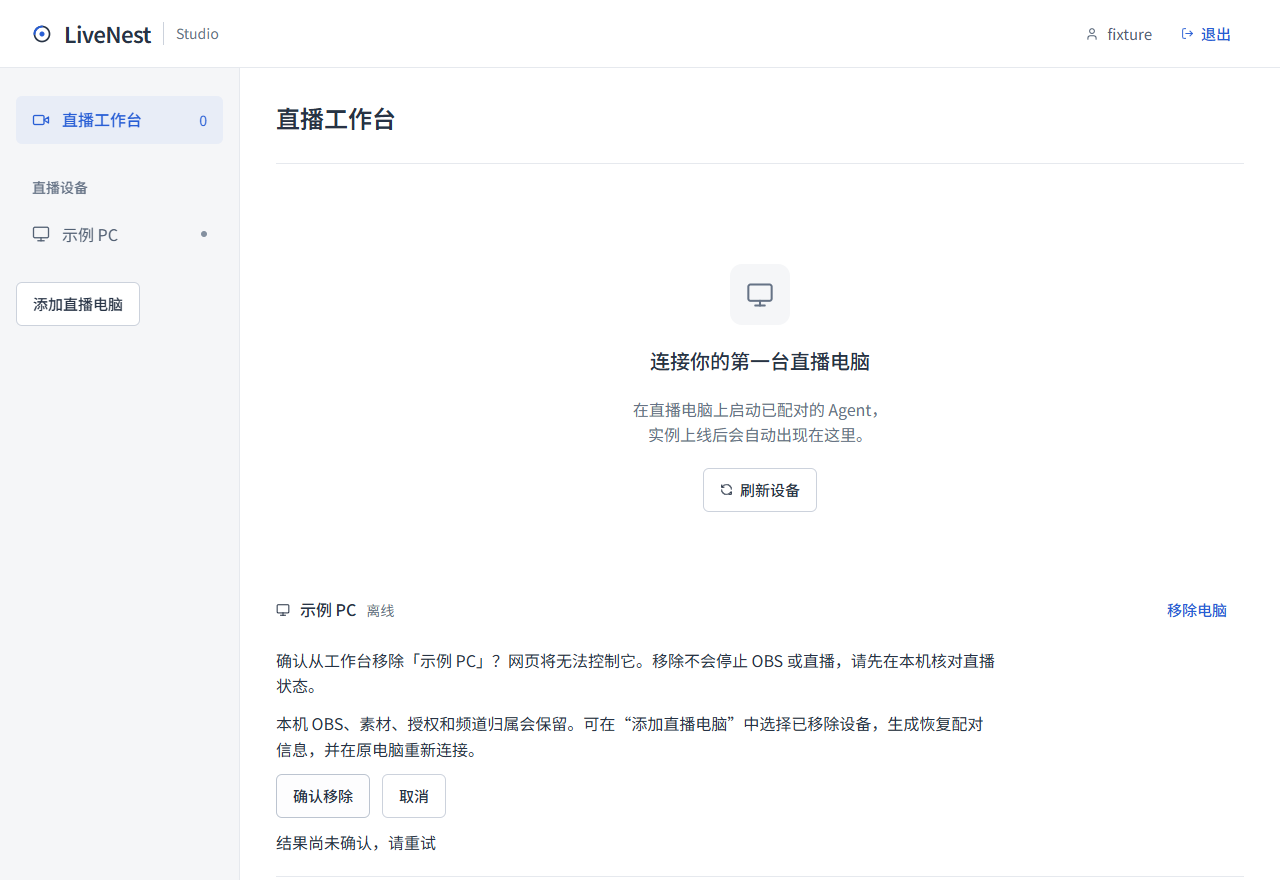
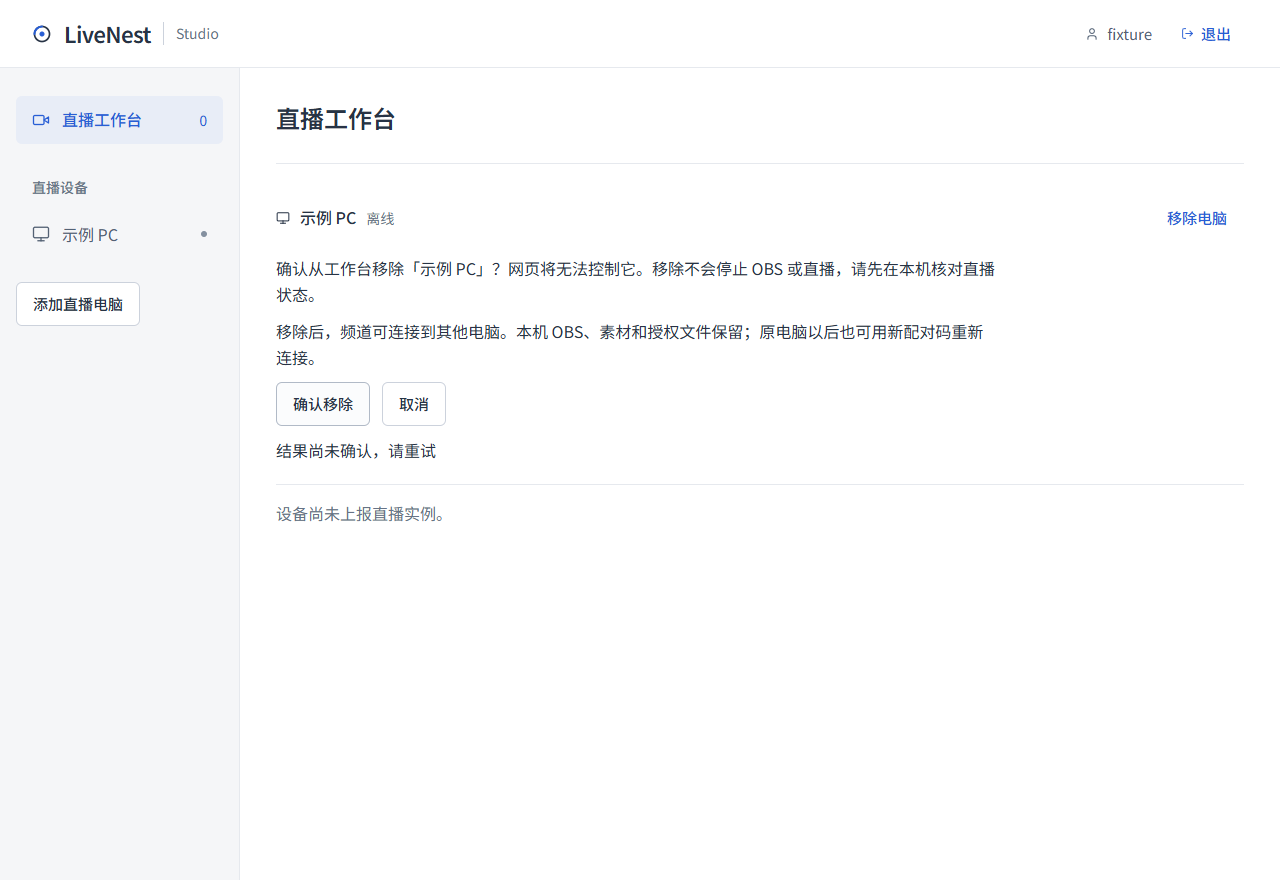
fix(channels)：移除设备时释放频道并清理历史占用

diff --git a/tests/channel-release.test.ts b/tests/channel-release.test.ts
@@ -1,0 +1,81 @@
+/** 移除设备释放频道的真实文件事务回归；只使用临时合成身份。 */
+import { mkdtemp, rm } from "node:fs/promises";
+import os from "node:os";
+import path from "node:path";
+import { randomUUID } from "node:crypto";
+import { beforeEach, afterEach, expect, it, vi } from "vitest";
+import { createPairing, pairAgent, openSession, revokeAgent, renewPairing } from "@/cloud/agents";
+import { claimChannel, reconcileRemovedChannelBindings } from "@/cloud/bindings";
+import { cloudStore, transaction } from "@/cloud/store";
+import { POST } from "@/app/api/agent/[...path]/route";
+import { Executor } from "@/agent/executor";
+import { Transport } from "@/agent/transport";
+import { Store } from "@/core/storage";
+let root: string;
+const origin = "https://cloud.example.com";
+const old = { agentId: "old_pc", instanceId: "main" };
+const current = { agentId: "new_pc", instanceId: "main" };
+/** 每次创建隔离云端元数据和本机授权目录。 */
+beforeEach(async () => {
+  root = await mkdtemp(path.join(os.tmpdir(), "ln-channel-release-"));
+  for (const [key, value] of Object.entries({ LIVEPILOT_DATA_ROOT: root, LIVEPILOT_MODE: "cloud", LIVEPILOT_ORIGIN: origin, LIVEPILOT_ENCRYPTION_KEY: "a".repeat(64), LIVEPILOT_INSTANCES: "main", GOOGLE_CLIENT_ID: "fixture", GOOGLE_CLIENT_SECRET: "fixture" })) vi.stubEnv(key, value);
+});
+/** 只清理经路径核实的测试目录。 */
+afterEach(async () => { vi.unstubAllEnvs(); vi.unstubAllGlobals(); vi.restoreAllMocks(); if (path.dirname(root) !== os.tmpdir() || !path.basename(root).startsWith("ln-channel-release-")) throw new Error("Unsafe cleanup"); await rm(root, { recursive: true, force: true }); });
+/** 使用现有协议建立可认证设备，不使用真实身份或 Google 服务。 */
+async function enroll(id: string) {
+  const token = (id === old.agentId ? "b" : "c").repeat(64); const invite = await createPairing(id, id);
+  await pairAgent(id, invite.code, token); const session = await openSession(id, randomUUID(), [{ id: "main", name: "Main" }]);
+  return { token, session: session.session };
+}
+/** 模拟旧版本遗留，或撤销已落盘但释放写入前进程退出。 */
+async function legacyRemoval() {
+  await enroll(old.agentId); await claimChannel(old, "UC_fixture", true);
+  await transaction(cloudStore(), async () => { const registry = (await cloudStore().read<{ agents: { id: string; revoked: boolean }[] }>("agents.json"))!; registry.agents.find(a => a.id === old.agentId)!.revoked = true; await cloudStore().write("agents.json", registry); });
+}
+it("releases only removed owners and makes historical cleanup idempotent", async () => {
+  await legacyRemoval(); await enroll(current.agentId); await claimChannel(current, "UC_active", true);
+  // claim 本身也修复历史遗留；再次造入旧记录验证显式部署清理。
+  const retained = (await cloudStore().read<unknown[]>("bindings.json"))!;
+  await cloudStore().write("bindings.json", [...retained, { ...old, channelId: "UC_fixture", confirmed: true }]);
+  expect(await reconcileRemovedChannelBindings()).toBe(1); expect(await reconcileRemovedChannelBindings()).toBe(0);
+  expect(await cloudStore().read("bindings.json")).toEqual([{ ...current, channelId: "UC_active", confirmed: true }]);
+});
+it.each([false, true])("does not resurrect stale ownership when removed identity pairs again, fresh=%s", async fresh => {
+  await legacyRemoval();
+  if (fresh) { const invite = await createPairing("fresh", "fresh"); await pairAgent("fresh", invite.code, "b".repeat(64), old.agentId); }
+  else { const invite = await renewPairing(old.agentId); await pairAgent(old.agentId, invite.code, "b".repeat(64)); }
+  expect(await cloudStore().read("bindings.json")).toEqual([]);
+});
+it("serializes removal with in-flight confirmation and never lets revoked requests reclaim", async () => {
+  await enroll(old.agentId); await enroll(current.agentId); await claimChannel(old, "UC_fixture");
+  await Promise.allSettled([claimChannel(old, "UC_fixture", true), revokeAgent(old.agentId)]);
+  expect(await cloudStore().read("bindings.json")).toEqual([]);
+  await expect(claimChannel(old, "UC_fixture", true)).rejects.toMatchObject({ status: 404 });
+  await claimChannel(current, "UC_fixture", true); await revokeAgent(old.agentId);
+  expect(await cloudStore().read("bindings.json")).toEqual([{ ...current, channelId: "UC_fixture", confirmed: true }]);
+});
+it("recovers after release persistence fails without restoring the revoked device", async () => {
+  await enroll(old.agentId); await claimChannel(old, "UC_fixture", true);
+  const write = Store.prototype.write;
+  const spy = vi.spyOn(Store.prototype, "write").mockImplementation(async function (this: Store, name: string, value: unknown) { if (name === "bindings.json") throw new Error("disk fixture"); return write.call(this, name, value); });
+  await expect(revokeAgent(old.agentId)).rejects.toThrow("disk fixture"); spy.mockRestore();
+  await enroll(current.agentId); await claimChannel(current, "UC_fixture", true);
+  expect(await cloudStore().read("bindings.json")).toEqual([{ ...current, channelId: "UC_fixture", confirmed: true }]);
+});
+it("completes old-Agent OAuth through the actual bindings route after removing the former device", async () => {
+  await legacyRemoval(); const identity = await enroll(current.agentId);
+  // Google 交换用合成响应；设备归属请求经过实际 Transport、路由认证与文件事务。
+  vi.stubGlobal("fetch", vi.fn(async (input: string | URL | Request, init?: RequestInit) => {
+    const url = String(input);
+    if (url.startsWith(origin + "/api/agent/")) { const headers = new Headers(init?.headers); headers.set("host", new URL(origin).host); return POST(new Request(url, { ...init, headers }), { params: Promise.resolve({ path: ["bindings"] }) }); }
+    if (url === "https://oauth2.googleapis.com/token") return Response.json({ access_token: "fixture-access", refresh_token: "fixture-refresh", expires_in: 3600 });
+    if (url.startsWith("https://www.googleapis.com/youtube/v3/channels?")) return Response.json({ items: [{ id: "UC_fixture", snippet: { title: "Fixture" } }] });
+    throw new Error("Unexpected request");
+  }));
+  const transport = new Transport(origin, current.agentId, identity.token); transport.session = identity.session;
+  const app = new Executor(transport).services.get("main")!; const begin = await app.auth.begin("alice");
+  await app.auth.finish(begin.cookie, new URL(begin.url).searchParams.get("state")!, "fixture-code", undefined, "alice");
+  expect((await app.auth.tokens())?.channelId).toBe("UC_fixture");
+  expect(await cloudStore().read("bindings.json")).toEqual([{ ...current, channelId: "UC_fixture", confirmed: true }]);
+});

diff --git a/src/cloud/agents.ts b/src/cloud/agents.ts
@@ -4,6 +4,7 @@ import path from "node:path";
 import { Store } from "@/core/storage";
 import { AppError } from "@/core/errors";
 import { cloudStore, transaction } from "./store";
+import { releaseAgentChannels } from "./bindings";
 import { idSchema, OFFLINE_MS, PROTOCOL, type AgentDescriptor, type AgentSnapshot } from "@/shared/remote";
 import type { InstanceDescriptor } from "@/shared/types";
 type Agent = { id: string; name: string; tokenHash?: string; pairingHash?: string; pairingExpires?: number; pairedTo?: string; pairingReceiptHash?: string; revoked: boolean; session?: string; bootId?: string; sessionSeen?: number; instances: InstanceDescriptor[] };
@@ -56,6 +57,7 @@ export async function pairAgent(id: string, code: string, token: string, current
     if (currentAgentId && current?.id !== id) {
       if (agent.tokenHash || agent.revoked || agent.instances.length || !matches(code, agent.pairingHash) || (agent.pairingExpires || 0) < Date.now()) throw new AppError("AGENT_AUTH", "请使用新生成且未使用的配对码。", 401);
       if (current?.tokenHash) {
+        if (current.revoked) await releaseAgentChannels(store, current.id);
         current.revoked = false; delete current.pairingHash; delete current.pairingExpires;
         agent.pairedTo = current.id; agent.pairingReceiptHash = digest(code); agent.revoked = true;
         delete agent.pairingHash; delete agent.pairingExpires;
@@ -66,6 +68,7 @@ export async function pairAgent(id: string, code: string, token: string, current
     }
     if (agent.revoked) {
       if (!matches(code, agent.pairingHash) || (agent.pairingExpires || 0) < Date.now() || (agent.tokenHash && !matches(token, agent.tokenHash))) throw new AppError("AGENT_AUTH", "恢复配对需要新的邀请和原电脑身份，请在原 Windows 账户的 LiveNest 中重试。", 401);
+      await releaseAgentChannels(store, agent.id);
       agent.revoked = false; agent.tokenHash = digest(token); delete agent.pairingHash; delete agent.pairingExpires;
       await store.write("agents.json", registry); return { protocol: PROTOCOL, agentId: id };
     }
@@ -149,7 +152,7 @@ export async function assertAgentActive(id: string) {
   const registry = await cloudStore().read<Registry>("agents.json");
   if (!registry?.agents.some(a => a.id === id && !a.revoked)) throw new AppError("AGENT_AUTH", "设备已移除，请从网页恢复配对。", 401);
 }
-/** 撤销与派发互斥，过期从未派发的任务；已送达任务和所有配置保留待核对。 */
+/** 撤销与派发互斥并释放频道归属；已送达任务、本机授权与文件保留待核对。 */
 export async function revokeAgent(id: string) {
   const local = agentStore(id); const store = cloudStore(); await transaction(local, async () => {
     await transaction(store, async () => {
@@ -157,6 +160,7 @@ export async function revokeAgent(id: string) {
       if (!agent) throw new AppError("AGENT", "设备不存在。", 404);
       delete agent.pairingHash; delete agent.pairingExpires; delete agent.pairingReceiptHash;
       agent.revoked = true; await store.write("agents.json", registry);
+      await releaseAgentChannels(store, id);
     });
     const queue = await local.read<{ records: import("./tasks").TaskRecord[] }>("tasks.json");
     if (queue) { for (const task of queue.records) if (task.status === "queued") { task.status = "expired"; task.updatedAt = Date.now(); task.message = "设备已移除，此任务尚未派发。"; } await local.write("tasks.json", queue); }

diff --git a/src/cloud/bindings.ts b/src/cloud/bindings.ts
@@ -1,19 +1,42 @@
-/** 全局频道永久归属；断线不会释放，失败占用保留供原设备恢复。 */
+/** 全局频道归属：离线保留，明确移除设备后释放；与设备身份变更共用短锁。 */
 import { cloudStore, transaction } from "./store";
 import { AppError } from "@/core/errors";
 import { requireTarget } from "./agents";
 import type { Target } from "@/shared/remote";
+import type { Store } from "@/core/storage";
 type Binding = Target & { channelId: string; confirmed: boolean };
+/** 调用方必须持有云端 metadata.lock；先持久化撤销，再释放该设备占用，失败可重试。 */
+export async function releaseAgentChannels(store: Store, agentId: string) {
+  const bindings = await store.read<Binding[]>("bindings.json") || [];
+  const retained = bindings.filter(b => b.agentId !== agentId);
+  if (retained.length !== bindings.length) await store.write("bindings.json", retained);
+  return bindings.length - retained.length;
+}
+/** 持锁清理历史已移除设备的占用；未知设备记录保留，不将离线当作移除。 */
+async function reconcileRemoved(store: Store) {
+  const registry = await store.read<{ agents: { id: string; revoked: boolean }[] }>("agents.json");
+  const removed = new Set(registry?.agents.filter(a => a.revoked).map(a => a.id));
+  const bindings = await store.read<Binding[]>("bindings.json") || [];
+  const retained = bindings.filter(b => !removed.has(b.agentId));
+  if (retained.length !== bindings.length) await store.write("bindings.json", retained);
+  return bindings.length - retained.length;
+}
+/** 部署后可安全重复执行，只释放明确已撤销的登记，不读取或修改本机授权。 */
+export async function reconcileRemovedChannelBindings() {
+  const store = cloudStore(); return transaction(store, () => reconcileRemoved(store));
+}
 /** 持久化占用发生在 Agent 保存令牌之前；重复占用由同一设备恢复。 */
 export async function claimChannel(target: Target, channelId: string, confirm = false) {
-  await requireTarget(target.agentId, target.instanceId);
   if (!/^[A-Za-z0-9_-]{1,128}$/.test(channelId)) throw new AppError("CHANNEL", "频道标识无效。");
   const store = cloudStore();
   await transaction(store, async () => {
+    // 在身份变更使用的同一把锁内重新确认，阻止在途请求于撤销后重新占位。
+    await requireTarget(target.agentId, target.instanceId);
+    await reconcileRemoved(store);
     const bindings = await store.read<Binding[]>("bindings.json") || [];
     const owner = bindings.find(b => b.channelId === channelId);
-    if (owner && (owner.agentId !== target.agentId || owner.instanceId !== target.instanceId)) throw new AppError("CHANNEL_IN_USE", "该频道已属于另一台电脑或 OBS，请选择独立频道。", 409);
+    if (owner && (owner.agentId !== target.agentId || owner.instanceId !== target.instanceId)) throw new AppError("CHANNEL_IN_USE", "该频道已连接到另一台电脑或 OBS。请先移除原电脑后再连接，或选择其他频道。", 409);
     if (owner) owner.confirmed ||= confirm; else bindings.push({ ...target, channelId, confirmed: confirm });
     await store.write("bindings.json", bindings);
-  }, "bindings.lock");
+  });
 }

diff --git a/tests/cloud.test.ts b/tests/cloud.test.ts
@@ -64,7 +64,7 @@ it("revokes device credentials and refuses copied active sessions", async () => 
   await expect(openSession("studio_a", randomUUID(), [{ id: "main", name: "主 OBS" }])).rejects.toMatchObject({ status: 409 });
   await revokeAgent("studio_a"); await expect(authenticateAgent(request)).rejects.toMatchObject({ status: 401 });
 });
-/** 移除只隔离控制，不清空正在执行的任务、维护凭据和频道归属。 */
+/** 移除释放频道占用，但不清空正在执行的任务、维护凭据和原身份。 */
 it("removes a PC and restores the original identity without replaying unsent work", async () => {
   const a = await connect("studio_a"); await claimChannel(destination, "UC_preserved", true);
   const sent = await enqueue(destination, "alice", { kind: "upload-status", uploadId: randomUUID() }); await pollTasks("studio_a");
@@ -80,7 +80,8 @@ it("removes a PC and restores the original identity without replaying unsent wor
   await pairAgent("studio_a", invite.code, a.token); await pairAgent("studio_a", invite.code, a.token);
   expect((await listAgents())[0].revoked).toBe(false);
   expect((await agentStore("studio_a").read<{ token: string }>("maintenance.json"))?.token).toBe("d".repeat(64));
-  await connect("studio_b"); await expect(claimChannel({ agentId: "studio_b", instanceId: "main" }, "UC_preserved")).rejects.toMatchObject({ status: 409 });
+  await connect("studio_b"); await claimChannel({ agentId: "studio_b", instanceId: "main" }, "UC_preserved");
+  await expect(claimChannel(destination, "UC_preserved")).rejects.toMatchObject({ code: "CHANNEL_IN_USE" });
   expect((await pollTasks("studio_a")).map(t => t.id)).toEqual([sent.id]);
 });
 /** 旧配对码和无有效恢复邀请的旧凭据都不能自动恢复已撤销电脑。 */
@@ -98,11 +99,13 @@ it("recovers a removed unclaimed invitation without creating duplicate device ID
   await pairAgent("studio_a", next.code, "b".repeat(64)); expect(await listAgents()).toHaveLength(1);
   await expect(renewPairing("studio_a")).rejects.toMatchObject({ status: 409 });
 });
-it("reserves global channel ownership permanently even if the owning device goes offline", async () => {
+it("preserves offline ownership but releases it when the owning device is removed", async () => {
   await connect("studio_a"); await connect("studio_b"); await claimChannel(destination, "UC_fixture", false);
   await expect(claimChannel({ agentId: "studio_b", instanceId: "main" }, "UC_fixture", true)).rejects.toMatchObject({ status: 409 });
-  await claimChannel(destination, "UC_fixture", true); await revokeAgent("studio_a");
+  vi.setSystemTime(Date.now() + 21_000);
   await expect(claimChannel({ agentId: "studio_b", instanceId: "main" }, "UC_fixture")).rejects.toMatchObject({ status: 409 });
+  await claimChannel(destination, "UC_fixture", true); await revokeAgent("studio_a");
+  await claimChannel({ agentId: "studio_b", instanceId: "main" }, "UC_fixture");
 });
 it("keeps OAuth codes encrypted and limits pair retries to the originally enrolled key", async () => {
   const pairing = await createPairing("studio_a", "A"); await pairAgent("studio_a", pairing.code, "b".repeat(64));

diff --git a/src/app/device-remove.tsx b/src/app/device-remove.tsx
@@ -12,5 +12,5 @@ export default function DeviceRemove({ agent, changed, children }: { agent: Agen
     try { await api("/api/devices", { method: "DELETE", headers: { "Content-Type": "application/json", "X-LivePilot": "1" }, body: JSON.stringify({ agentId: agent.id, confirmed: true }) }); setConfirm(false); changed(); }
     catch (e) { setError((e as Error).message); } finally { pending.current = false; setBusy(false); }
   }
-  return <><div className="device-header">{children}<button className="btn-ghost" disabled={busy} onClick={() => setConfirm(true)}>移除电脑</button></div>{confirm && <div className="device-remove-confirm" role="group" aria-label={"移除 " + agent.name}><p>确认从工作台移除「{agent.name}」？网页将无法控制它。移除不会停止 OBS 或直播，请先在本机核对直播状态。</p><p>本机 OBS、素材、授权和频道归属会保留。可在“添加直播电脑”中选择已移除设备，生成恢复配对信息，并在原电脑重新连接。</p><div className="device-remove-actions"><button disabled={busy} onClick={() => void remove()}>{busy ? "正在移除…" : "确认移除"}</button><button disabled={busy} onClick={() => { setConfirm(false); setError(""); }}>取消</button></div>{error && <p role="alert">{error}</p>}</div>}</>;
+  return <><div className="device-header">{children}<button className="btn-ghost" disabled={busy} onClick={() => setConfirm(true)}>移除电脑</button></div>{confirm && <div className="device-remove-confirm" role="group" aria-label={"移除 " + agent.name}><p>确认从工作台移除「{agent.name}」？网页将无法控制它。移除不会停止 OBS 或直播，请先在本机核对直播状态。</p><p>移除后，频道可连接到其他电脑。本机 OBS、素材和授权文件保留；原电脑以后也可用新配对码重新连接。</p><div className="device-remove-actions"><button disabled={busy} onClick={() => void remove()}>{busy ? "正在移除…" : "确认移除"}</button><button disabled={busy} onClick={() => { setConfirm(false); setError(""); }}>取消</button></div>{error && <p role="alert">{error}</p>}</div>}</>;
 }

diff --git a/src/cloud/admin.ts b/src/cloud/admin.ts
@@ -1,6 +1,7 @@
 /** 云端本机管理入口：创建设备配对码、列出设备或撤销凭据。 */
 import { existsSync } from "node:fs";
 import { createPairing, listAgents, revokeAgent } from "./agents";
+import { reconcileRemovedChannelBindings } from "./bindings";
 import { AppError, safeError } from "@/core/errors";
 /** 管理命令只读取当前部署配置；不会把环境和设备凭据打印到日志。 */
 async function main() {
@@ -8,7 +9,8 @@ async function main() {
   const [action, id, name] = process.argv.slice(2);
   if (action === "pair") { const result = await createPairing(id, name || id); console.log(`设备：${result.agentId}\n一次性配对码（10 分钟有效，仅交给这台电脑）：${result.code}`); }
   else if (action === "list") { for (const agent of await listAgents()) console.log(`${agent.id}\t${agent.name}\t${agent.revoked ? "已撤销" : agent.online ? "在线" : "离线"}\t${agent.instances.map(i => i.id).join(",")}`); }
-  else if (action === "revoke") { await revokeAgent(id); console.log("设备凭据已撤销；已接收任务和 OBS 不会因此停止。"); }
-  else throw new AppError("INPUT", "用法：agent:admin -- pair <设备ID> [名称] | list | revoke <设备ID>");
+  else if (action === "revoke") { await revokeAgent(id); console.log("设备已移除，频道占用已释放；已接收任务和 OBS 不会因此停止。"); }
+  else if (action === "release-removed-channels") console.log("已释放已移除设备的频道占用：" + await reconcileRemovedChannelBindings());
+  else throw new AppError("INPUT", "用法：agent:admin -- pair <设备ID> [名称] | list | revoke <设备ID> | release-removed-channels");
 }
 void main().catch(error => { console.error(safeError(error)); process.exitCode = 1; });

diff --git a/src/app/api/devices/route.ts b/src/app/api/devices/route.ts
@@ -1,4 +1,4 @@
-/** 已登录成员移除云端设备登记；保留本机数据、频道归属和待核对任务。 */
+/** 已登录成员移除云端设备并释放频道归属；保留本机数据和待核对任务。 */
 import { z } from "zod";
 import { authenticate } from "@/server/access";
 import { guard, failed } from "@/server/http";

diff --git a/README.md b/README.md
@@ -27,7 +27,7 @@
 
 网页素材上传新增“查询未结束的上传”，可找回创建失败或响应丢失的记录并查询、取消。云端只根据 Agent 确认的完成、取消或有效的不存在结果解除上传维护阻塞；未知结果不会因七天到期而自动放行。客户端“检查电脑”读取实际监听地址与防火墙有效策略，无法确认隔离时明确提示核查。
 
-配对只需网页生成新码、复制到客户端并点击“连接”。旧电脑被移除后也能使用新生成的码，无需查找旧设备或专属码；客户端证明原身份后，云端自动恢复原电脑，保留 OBS、素材、密钥、授权和频道归属。配对码十分钟有效、只可认领一次；响应丢失可由同一电脑重试。成功后隐藏表单，邀请占位不混入直播设备列表。网页“移除电脑”不会停止 OBS 或直播；另一台电脑不能凭新码接管原身份。旧 Agent 的原配对协议和恢复入口继续兼容。
+配对只需网页生成新码、复制到客户端并点击“连接”。旧电脑被移除后也能使用新生成的码，无需查找旧设备或专属码；客户端证明原身份后，云端自动恢复原电脑，保留 OBS、素材、密钥和本机授权文件。配对码十分钟有效、只可认领一次；响应丢失可由同一电脑重试。成功后隐藏表单，邀请占位不混入直播设备列表。网页“移除电脑”会释放它占用的频道，之后可连接到任意电脑；本机文件保留，不会停止 OBS 或直播。普通离线不会释放频道；另一台电脑不能凭新码接管原身份。旧 Agent 的原配对协议和恢复入口继续兼容。
 
 内置 OBS 资源缺失、手动路径不存在和解压不完整均提供具体提示；初始化失败保留候选以便重试。已经配置的 OBS 缺失时不会自动覆盖旧目录。
 

diff --git a/docs/多电脑云端与Agent.md b/docs/多电脑云端与Agent.md
@@ -57,7 +57,7 @@ Google 的网页 OAuth 回调不支持普通公网 IP。IP 网站上连接频道
 - 控制任务和 OAuth 在同一实例互斥，不同实例并行。上传任务不占用控制队列。
 - `npm run recover:lock -- main host` 和其他原恢复命令先验证旧 PID 已退出，只删除明确的锁。Agent 配置文件可通过 `LIVEPILOT_ENV_FILE` 指定；不要删除 control.json、youtube.enc 或 Agent 日志来“修复”。
 - 云端文件锁异常退出后须按锁内 PID 核对，保留所有任务及频道归属。云端只能运行一个应用进程，不使用 PM2 cluster 或多个容器副本。
-- 频道先在云端永久占用，再在本机加密保存、最后确认。网络中断可以恢复原归属；离线/撤销不会自动释放。第一版不提供网页跨设备转移频道，需停播并人工确认原设备不再使用后再迁移。
+- 频道先在云端占用，再在本机加密保存、最后确认。普通离线保留归属；用户明确移除设备后释放它的全部频道占用，频道可重新授权到任意电脑。移除不撤销 Google 令牌、不停止 OBS，也不删除本机文件。频道认领与身份撤销共用元数据锁；已撤销设备的迟到请求不能恢复占用，重新配对不能夺走已分配给其他电脑的频道。旧版本的已移除设备占用会在新认领时自动清理；部署可运行 `agent:admin -- release-removed-channels` 提前对账，仅清理明确撤销的设备。
 
 ## 素材与容量
 

diff --git a/docs/桌面配置与网页协作.md b/docs/桌面配置与网页协作.md
@@ -106,7 +106,7 @@
 
 ## 6. 移除电脑后重新配置（待发布）
 
-在网页对应电脑的标题旁点击“移除电脑”，阅读说明并确认。设备从工作台隐藏，原电脑的 OBS、素材和频道授权均保留；正在运行的 OBS 和直播不会被停止。移除后不要删除本机身份文件。
+在网页对应电脑的标题旁点击“移除电脑”，阅读说明并确认。设备从工作台隐藏，云端频道占用立即释放，可重新连接到任意电脑；原电脑的 OBS、素材和授权文件保留；正在运行的 OBS 和直播不会被停止。移除后不要删除本机身份文件。
 
 需要恢复时直接生成新配对码，在原 Windows 用户的 LiveNest 第③步粘贴并点击“连接”。普通断网无需重新配对；确需使用新码时可展开“粘贴新的配对码”。恢复仍验证客户端保存的原凭据，不能接管其他电脑或旧 OBS。已消费邀请不会成为重复电脑；网页成功入口指向原设备。旧版客户端仍可通过折叠入口选择原电脑恢复。本功能需要升级云端和此分支客户端，本地安装包不等于网页已部署。
 
